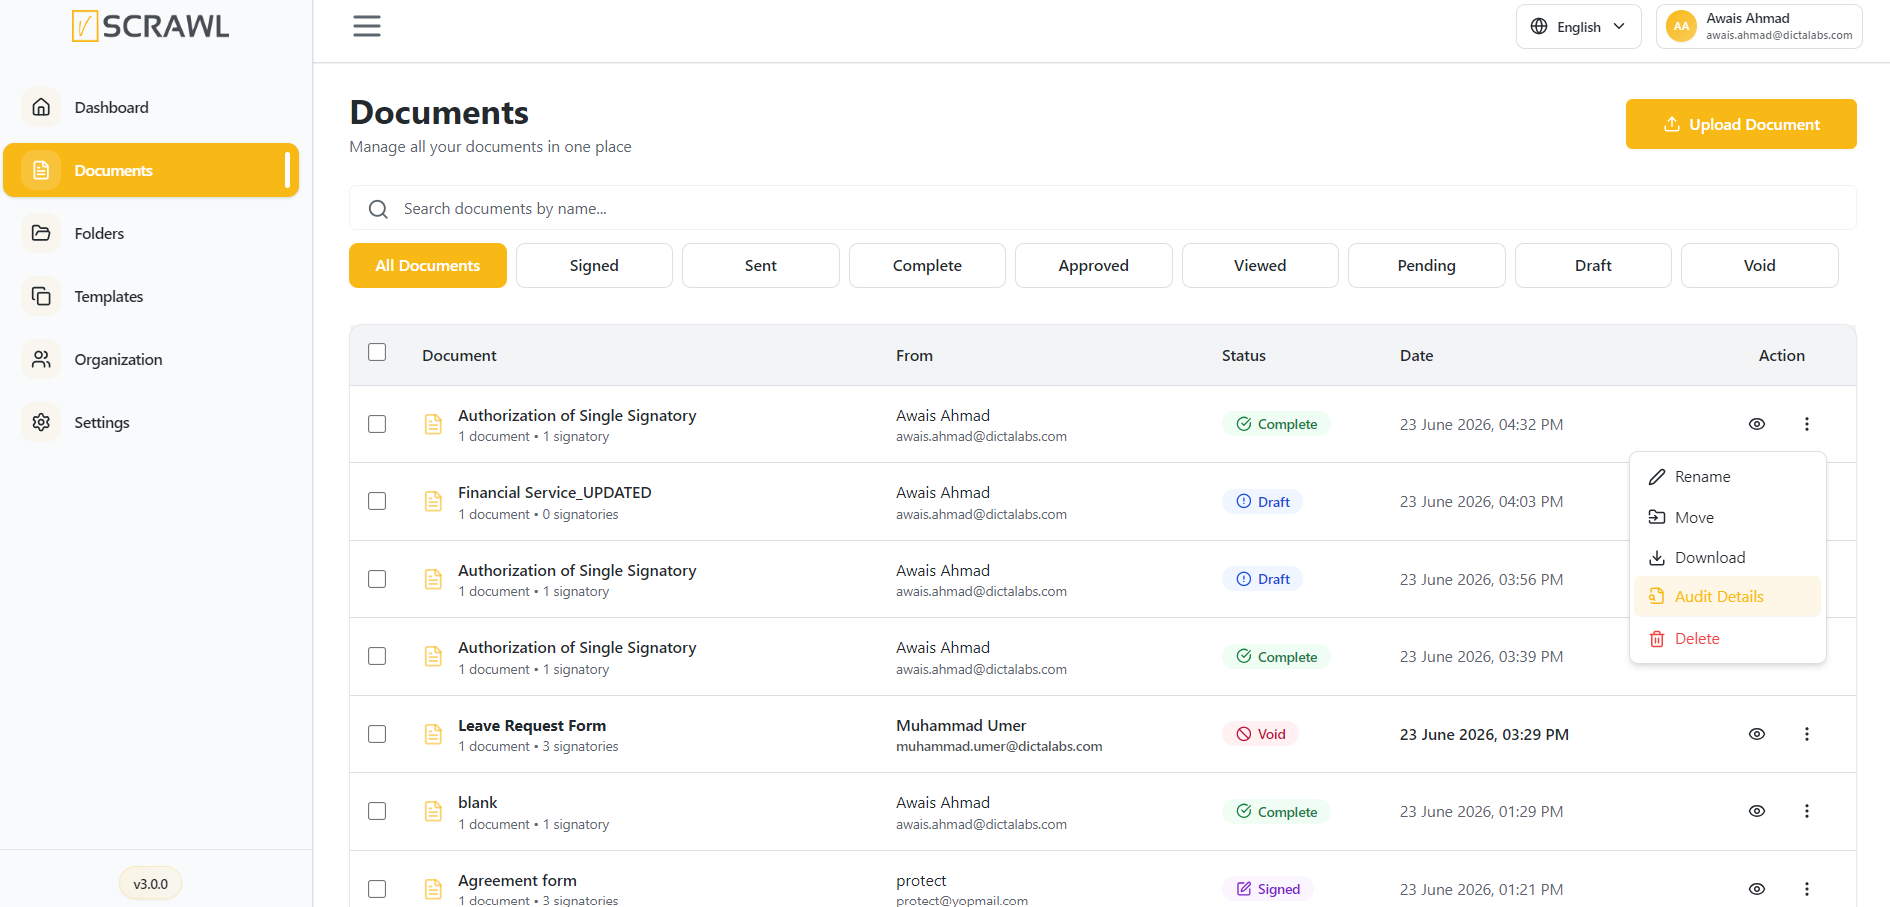
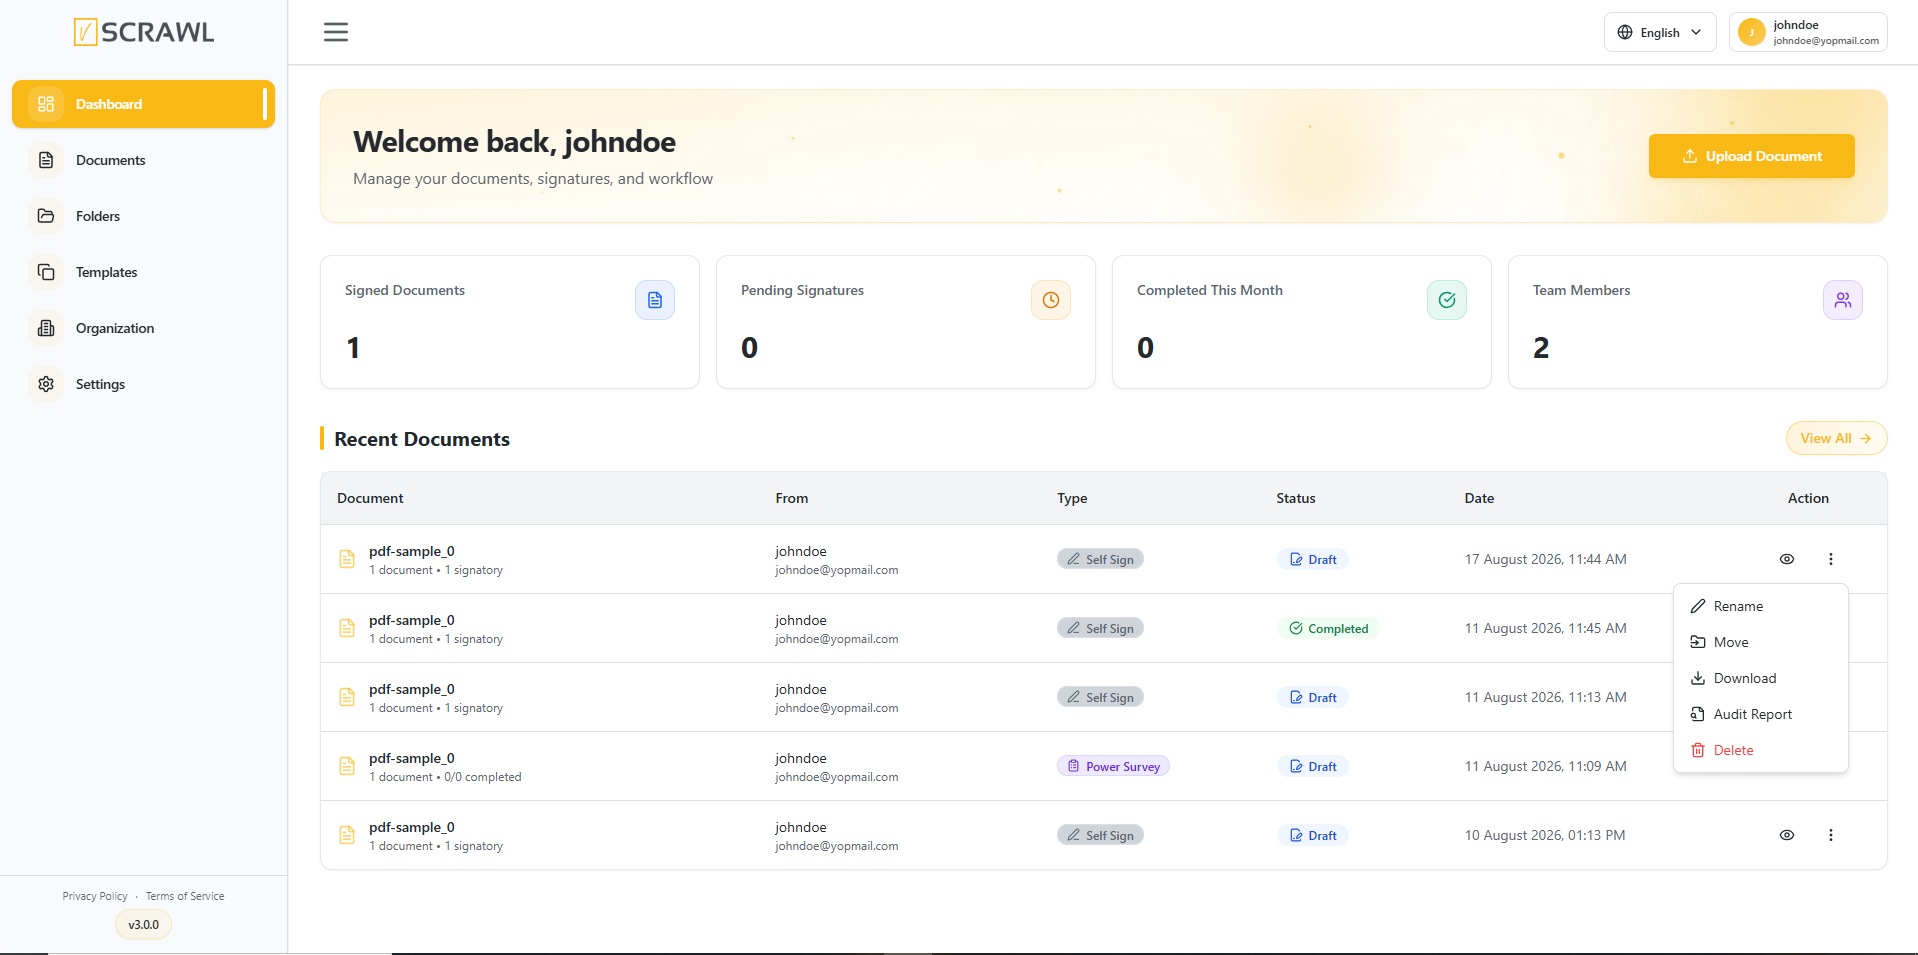
Changes
Changes are pushed

diff --git a/docs/settings.md b/docs/settings.md
@@ -3,7 +3,7 @@
 ## User Specific Settings 
 ### Settings
 
-The **Settings** page in vScrawl allows you to manage your **account details, security preferences, online signatures, and notifications**. This is where you personalize your profile and ensure your signing experience is both secure and efficient.
+The  **Settings** page** in vScrawl allows you to manage your **account details, security preferences, online signatures, and notifications**. This is where you personalize your profile and ensure your signing experience is both secure and efficient.
 
 - Displays your **name and email address**.
     
@@ -23,60 +23,9 @@ The **Settings** page in vScrawl allows you to manage your **account details, se
 
 - **Language** - Your selected language.
 
-- **Download my data** – The last block on the tab. It gives you a copy of everything held in your account, and it acts on click — it is not part of **Save**. See [Download my data](#download-my-data) below.
 
+    
 - After changes, click **Save** to update your profile.
-
-#### Download my data
-
-**Settings → Account Settings → Download my data** gives you a ZIP file containing your
-account details, your settings, the documents you own or were asked to sign,
-your signing activity, your saved signatures, your certificates, your
-notifications and your account history. If you applied for a qualified
-certificate, it also contains the identity details you gave for that. Everything
-in it is plain text you can open and read.
-
-The button sits at the foot of the Account Settings tab, under **Language**. Click it once — it
-prepares the archive and the download starts on its own. While it is working the button shows
-**Preparing your download…**; it does not need **Save**, and nothing else on the tab is affected.
-
-Start with **`README.md`** inside the archive. It lists what each file holds, what
-is deliberately left out and why, and where to ask for anything missing.
-
-**Every list is in date order with the most recent entry first**, so the newest
-document, the latest signing activity and your most recent account history are at
-the top of each file rather than buried at the bottom.
-
-The files are written to be read, not decoded. Dates appear as
-*31 August 2026, 11:36 AM (UTC)* rather than as a machine timestamp, file sizes as
-*13 KB*, and statuses in words — *"Sent — waiting for signatures"* rather than a
-code. Internal record numbers are not included: they mean nothing outside our
-database and answer no question you would have.
-
-If your activity history is very long the archive holds your most recent entries
-and says so — ask us and we will send you the rest.
-
-Some things are deliberately left out:
-
-- **The document files themselves and your signature images.** You already have
-  these — download a document from the Documents screen, and your signature
-  images from **Signature Settings**.
-- **The scan of your identity document**, if you uploaded one. It is your own
-  file — you still have it, and it is the one thing in your record that would do
-  the most damage if the archive went astray.
-- **Your consent to sign electronically.** That is recorded per document and shown
-  in full in each document's Audit Report, which you can download from the
-  document itself.
-- **Other people's names and email addresses.** Where a document had other
-  signers, the file says how many there were, not who they were. They have
-  privacy rights too.
-
-Your security details — your two-factor code seed and your security-question
-answer — are also left out on purpose. They protect your account, and putting
-them in a file you are about to save or email would weaken that.
-
-Each download is recorded in your account history, so you can always see when a
-copy was taken.
 
 ### Delete Account
 
@@ -89,138 +38,6 @@ To delete an account:
 
 !!! warning ""
     **Note:** Account deletion may permanently remove user data and associated documents. This action should be performed carefully.
-
-Deleting your account removes your sign-in, your draft documents, your saved signatures and initials, and your signing certificates. Documents you had already sent but that were not yet completed are voided, so no one can sign them afterwards.
-
-Three things are worth knowing before you do it:
-
-- **Documents you have already signed are not deleted.** Your name stays on them, along with the record that you signed them. Other people rely on those signatures, and the law requires them to be kept — a signature that could be erased would not be a signature.
-- **If you own an organization with other members**, you cannot delete your account until you transfer ownership or remove the other members first.
-- **Your administrator decides how much is removed.** The description above is what happens on the standard setting. Some installations are configured to close the account without removing anything, so that signing up again with the same email address brings you back to it, with your documents where you left them. If that matters to you, ask whoever runs your installation which way it is set.
-
-### If you stop using your account
-
-Some installations close accounts that nobody has signed in to for a long time. If
-yours does, **you are always warned by email first** — no account is ever closed
-without notice.
-
-The email is titled *"your account will be closed"* and tells you two things:
-
-- **how long the account has been unused**, and
-- **how many days you have left** to sign in and keep it.
-
-Signing in is all it takes. One sign-in resets the clock and the account is left
-alone; there is nothing to reply to and no form to fill in.
-
-!!! note ""
-    **The warning always arrives before the deadline, never on the same day.** The
-    gap between the two is set by your administrator, and the email states it.
-
-If you do nothing, the account is closed on a later date. That removes your
-sign-in, your drafts and your saved signatures — exactly what deleting the account
-yourself would do, including the part that matters most:
-
-- **Documents you have already signed are not affected.** They are kept as
-  evidence, and other people may rely on them.
-
-If you no longer want the account, you do not need to do anything.
-
-!!! tip ""
-    The same warning is written into your notifications inside the app, so if the
-    email went to an address you no longer read, it is still on your account.
-    Whether your installation closes dormant accounts at all — and after how long
-    — is up to your administrator; ask them if you need the exact periods.
-
-### Your Privacy Rights
-
-You have rights over the personal information held about you, and most of them you can exercise yourself from this Settings page.
-
-| What you want | How |
-| --- | --- |
-| **Correct something that is wrong** | Edit it under **Account Settings** above and click **Save** |
-| **Get a copy of your data** | **Settings → Account Settings → Download my data** |
-| **Delete your account and data** | **Delete Account** above |
-| **Turn off mobile crash reports and analytics** | In the **mobile app**, **Settings → Privacy** |
-| **Ask a question about how your information is used** | Contact your organization owner, or the address given in the Privacy Policy |
-
-!!! note ""
-    There is no separate **Privacy** tab in the web app. Everything you can do yourself is on
-    **Account Settings** — correcting your details, downloading your data, and deleting your
-    account. The **Privacy** screen described further down belongs to the mobile app, which has
-    crash-report and analytics choices the web app does not collect at all.
-
-### Cookies and what the site remembers
-
-The first time you sign in on a browser, a short notice appears at the foot of the
-screen telling you what the site keeps on your device. It is a notice rather than a
-question: **Accept** closes it, and the page carries on working normally while it is
-there — you can scroll, click and keep going without answering first.
-
-It waits for you to sign in because that is when the cookies it describes begin. Open
-the Privacy Policy or Terms page without signing in and the site stores nothing at
-all, so there is nothing to tell you about yet.
-
-![Cookies](images/cookie-consent-banner.png)
-
-**Only the cookies the service cannot work without are used:**
-
-| What it covers | Why it is needed |
-| --- | --- |
-| Your sign-in session | Keeps you signed in as you move between pages |
-| Security protections | Stops other sites acting on your behalf |
-| Your language choice | So the app opens in the language you picked |
-
-**There is nothing to refuse.** vScrawl sets no advertising cookies, no tracking
-cookies and no third-party analytics — so there is no optional category to accept
-or reject, and nothing is withheld from anybody. The law requires consent for
-optional storage; storage a service genuinely cannot run without is exempt, and
-that is all this is.
-
-Your acknowledgement is remembered **in the browser you gave it in**, not on your account.
-Signing in on a different browser or device, or clearing this site's stored data, shows the
-notice again — the answer was kept on the device you cleared.
-
-!!! note ""
-    There is no page in the app that lists your answer back to you, and nothing to change: the
-    only storage vScrawl sets is the kind the service cannot run without, and that is used
-    whichever way you answer. To see the notice again, clear this site's stored data in your
-    browser — it appears on your next sign-in. Your documents, signatures and account are not
-    affected; only the stored acknowledgement is.
-
-### Where to read the Privacy Policy and Terms
-
-Both are linked from the bottom of the left-hand menu on every page and from the
-sign-up page; the cookie notice links the Privacy Policy. They are
-published by the organization that runs your vScrawl installation, so their content
-is theirs — not the platform's.
-
-If a page opens and says the policy is not available, that organization has not
-published it yet. Ask your organization owner; they can publish it from the admin
-console.
-
-### What is recorded about you
-
-So that nothing here is a surprise:
-
-- **Your account details** — name, email, username, language and notification preferences.
-- **Your documents** — what you upload, who you send it to, and what is typed into the fields.
-- **Your signature and initials images**, and any stamps you add.
-- **A record of your activity** — actions you take, with the time, your IP address and your browser. This is what makes the [Audit Report](audit_report.md) possible, and it is what makes a signature defensible if it is ever questioned.
-- **Your consent to sign electronically**, where your organization requires it — including the exact wording you accepted, the time, your IP address and your browser.
-- **Your acceptance of the Terms and Privacy Policy** when you created the account — the time, the address you accepted from, which screen asked you, and a short mark identifying the exact wording you were shown. This appears in your account history as **Terms and Privacy Policy Accepted**, and it is included in the copy you can download above.
-
-!!! note ""
-    The organization that sent you a document decides what information that document asks for and how long it is kept. If you want a document changed or removed, contact the organization that sent it — they control it, not the platform.
-
-### Mobile app privacy settings
-
-!!! note ""
-    This section is about the **vScrawl mobile app** only. The web app has no Privacy screen
-    because it collects none of this — no crash reports, no usage analytics.
-
-The mobile app asks, the first time you open it, whether it may send crash reports and usage analytics. **Both start switched off.** You can change your answer at any time in **Settings → Privacy** in the mobile app.
-
-Choosing **Reset privacy choices** there stops all collection and deletes the diagnostic data held on your device. The app works exactly the same either way — nothing about signing, documents or your account depends on it.
 
 ### Security Settings
 
@@ -235,113 +52,17 @@ Choosing **Reset privacy choices** there stops all collection and deletes the di
 
 ### Signature Settings
 
-The **Signature Settings** tab is where you manage everything you sign with: the assurance level applied when you sign, and the items you apply to documents — your **signatures**, **initials** and **stamps**.
-
-#### Signature type and allowance
-
-- Choose the assurance level applied when you sign a document: **Simple Electronic Signature**, **Advanced Electronic Signature** or **Qualified Electronic Signature**. The level currently applied is marked **IN USE**.
+- In vScrawl, you can set up and manage the type of electronic signature you want to use by default, directly from your **Settings**. This ensures flexibility and compliance with different levels of security and legal requirements.
     
-- If you belong to an **organization**, **Signature allowance** shows how many Electronic, Advanced and Qualified signatures your current plan includes.
+- You can change your **signature type** and **appearance** anytime, depending on the security level required and **Set or update** your signature by clicking **Update Signature**.
 
 ![vScrawl Settings](images/setup-signature-types.png)
 
-#### Your saved signatures, initials and stamps
-
-vScrawl keeps **three separate libraries**, so you can save more than one of each and apply the right one to each field you sign.
-
-![Saved signatures, initials and stamps](images/signature-settings-saved-items.png)
-
-| Section | Button | How the item is created |
-| --- | --- | --- |
-| **Your Saved Signatures** | **Add Signature** | Draw, type or upload |
-| **Your Saved Initials** | **Add Initial** | Draw, type or upload |
-| **Your Saved Stamps** | **Add Stamp** | Upload an image |
-
-- Each saved item appears as a card with its preview and a label — **Signature 1**, **Initials 1**, **Stamp 1** — numbered in the order you created them.
+- Your signature settings are applied across all documents you upload or sign in vScrawl.
     
-- How many items you can keep in each library is set by your administrator (**5** by default). Once a library is full, delete an item before adding another.
-    
-- **Appearance** shows how your signature is rendered on a signed document.
+- If you are present in someone’s **organization** you can see your **signature quota’s** for **Simple** and **Digital Signatures**.
 
-!!! note ""
-    A stamp is uploaded as an image — it is used as a company seal or mark, and it never replaces a signature.
-
-#### Adding an item
-
-Click **Add Signature**, **Add Initial** or **Add Stamp** in the matching section. A dialog opens for that type only. Fill it in and click **Save** — **Save** stays inactive until there is something to save. **Close** discards it.
-
-**Add Signature** and **Add Initial** offer three ways to create the item, each on its own tab:
-
-| Tab | What you do |
-| --- | --- |
-| **Upload** | Click **Browse** and choose an image file from your device |
-| **Draw** | Draw the signature or initials by hand |
-| **Type** | Type your name and have it rendered in a handwriting style |
-
-![Add Signature](images/add-signature-dialog.png)
-
-![Add Initial](images/add-initial-dialog.png)
-
-**Add Stamp** has no tabs — a stamp can only be uploaded, so the dialog goes straight to **Browse**.
-
-![Add Stamp](images/add-stamp-dialog.png)
-
-The new item is added to that library and appears as a new card. If it is the first item of its type, it also becomes the default.
-
-#### The default item
-
-- The card marked **DEFAULT** is the one applied automatically when you click an empty field of that type.
-    
-- To change it, click **Set as default** on another card.
-    
-- A new default applies to documents you sign from that point on. Documents you have already signed keep the item they were signed with.
-
-#### Deleting an item
-
-Click the bin icon on a card. A confirmation dialog opens, naming the exact item you are about to remove — **Signature 2**, **Initials 2**, **Stamp 1** — so you can be sure it is the right one. Click **Delete** to remove it, or **Cancel** to keep it.
-
-![Delete Signature](images/delete-signature-dialog.png)
-
-![Delete Initials](images/delete-initials-dialog.png)
-
-![Delete Stamp](images/delete-stamp-dialog.png)
-
-- If you delete the default, your oldest remaining item of that type becomes the new default.
-    
-- Documents you have already signed are never changed — they keep the signature, initials or stamp they were signed with. If a document you currently have open uses the deleted item, that field is cleared so you can choose another one.
-
-#### Choosing which item to apply in a document
-
-Your saved items are applied while you fill in a document:
-
-1. Click an **empty** signature, initials or stamp field — your default item (or the one you picked most recently) is applied straight away.
-    
-2. Click the **same field again** — the picker opens so you can apply a different item to that field.
-
-The picker always matches the field you clicked, so it only ever offers items of the right type — signatures for a signature field, initials for an initials field, and stamps for a stamp field.
-
-**Signature field — "Choose a signature"**
-
-![Choose a signature](images/signature-picker-choose-saved-item.png)
-
-**Initials field — "Choose Initial"**
-
-![Choose Initial](images/signature-picker-choose-initial.png)
-
-**Stamp field — "Choose a stamp"**
-
-![Choose a stamp](images/signature-picker-choose-stamp.png)
-
-From any of the three you can:
-
-- select any saved item — it is applied to **that field only**; the item currently in use is outlined and carries a tick,
-    
-- add a new item without leaving the document — **Add Signature**, **Add Initial** or **Add Stamp**, depending on which field you clicked,
-    
-- delete an item you no longer need, using the bin icon on its card.
-
-!!! note ""
-    Your choice is remembered per field, so one document can carry a different signature, set of initials or stamp on each field.
+![vScrawl Settings](images/signature-quota.png)
 
 ### Notifications Settings
 

diff --git a/docs/languages.md b/docs/languages.md
@@ -19,17 +19,3 @@
 
 
 ![vScrawl Settings](images/dashboard-language-button.png)
-
-## Choosing a language before you sign in
-
-The sign-in page has its own language control, at the foot of the card. Picking a language there
-translates the sign-in pages **and carries into the application**: sign in through an Arabic
-sign-in page and vScrawl opens in Arabic, right to left, with no second choice to make.
-
-!!! note ""
-    Your choice is remembered on your account, not just in that browser, so it follows you to your
-    other devices the next time you sign in there.
-
-    A language you pick **inside** the application wins over the sign-in page. If you set Spanish in
-    the dropdown above and later sign in on a machine whose sign-in page is still showing Arabic,
-    vScrawl opens in Spanish — the deliberate choice is the one that is kept.

diff --git a/docs/signup.md b/docs/signup.md
@@ -14,12 +14,6 @@
 ![Pasted image 20260525193336.png](images/Pasted image 20260525193336.png)
 
 - Select to agree the **Terms and Conditions** and **Privacy Policy** and click **“Create your free account”**.
-
-!!! note ""
-    The box is **not** ticked for you, and the account is not created until you tick
-    it — that is what makes it consent rather than an assumption. Your acceptance is
-    stored with your account, along with the date and the address you accepted from,
-    so it can be shown later if anyone asks what you agreed to and when.
     
 - An account activation email will be received, **Verify your account** → **account gets activated** → **login from the Login page.**
 
